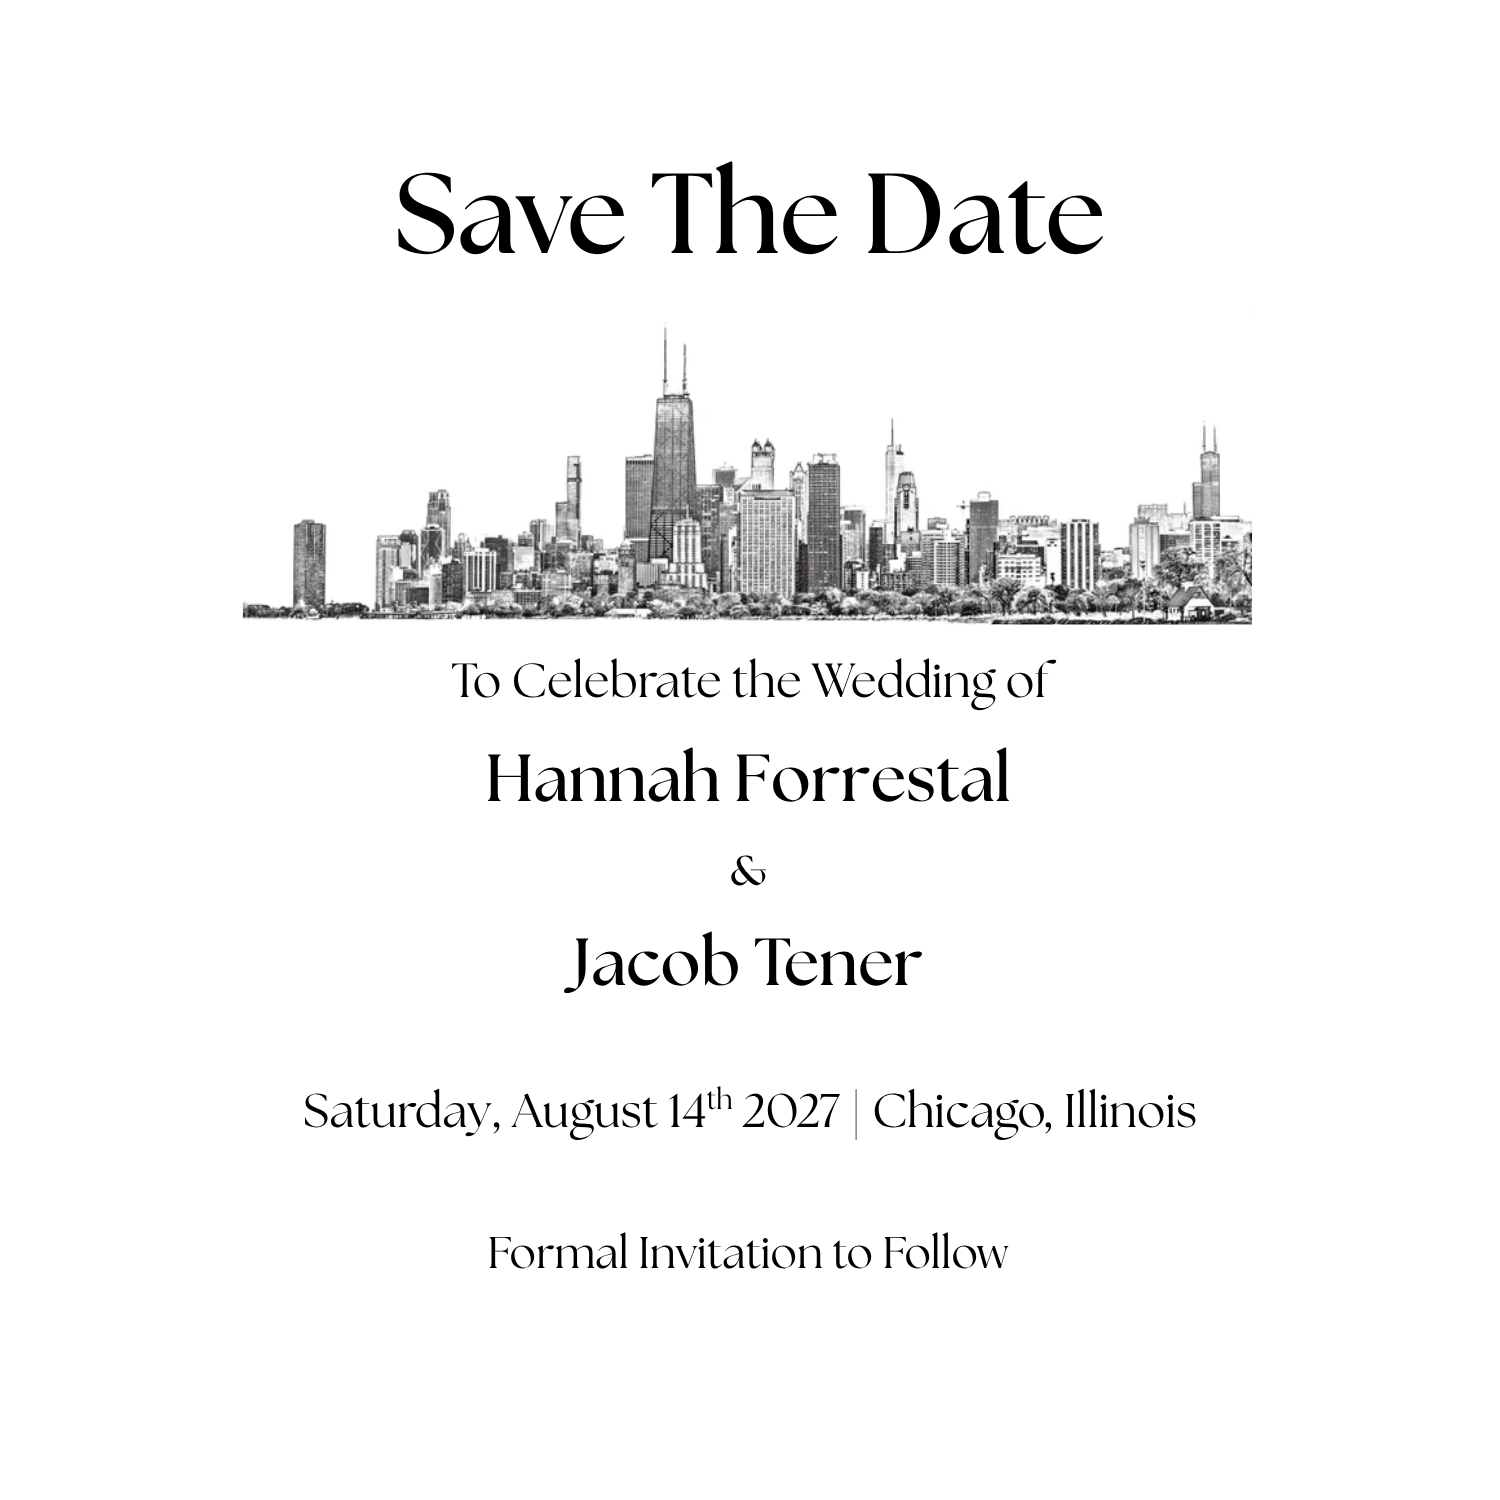
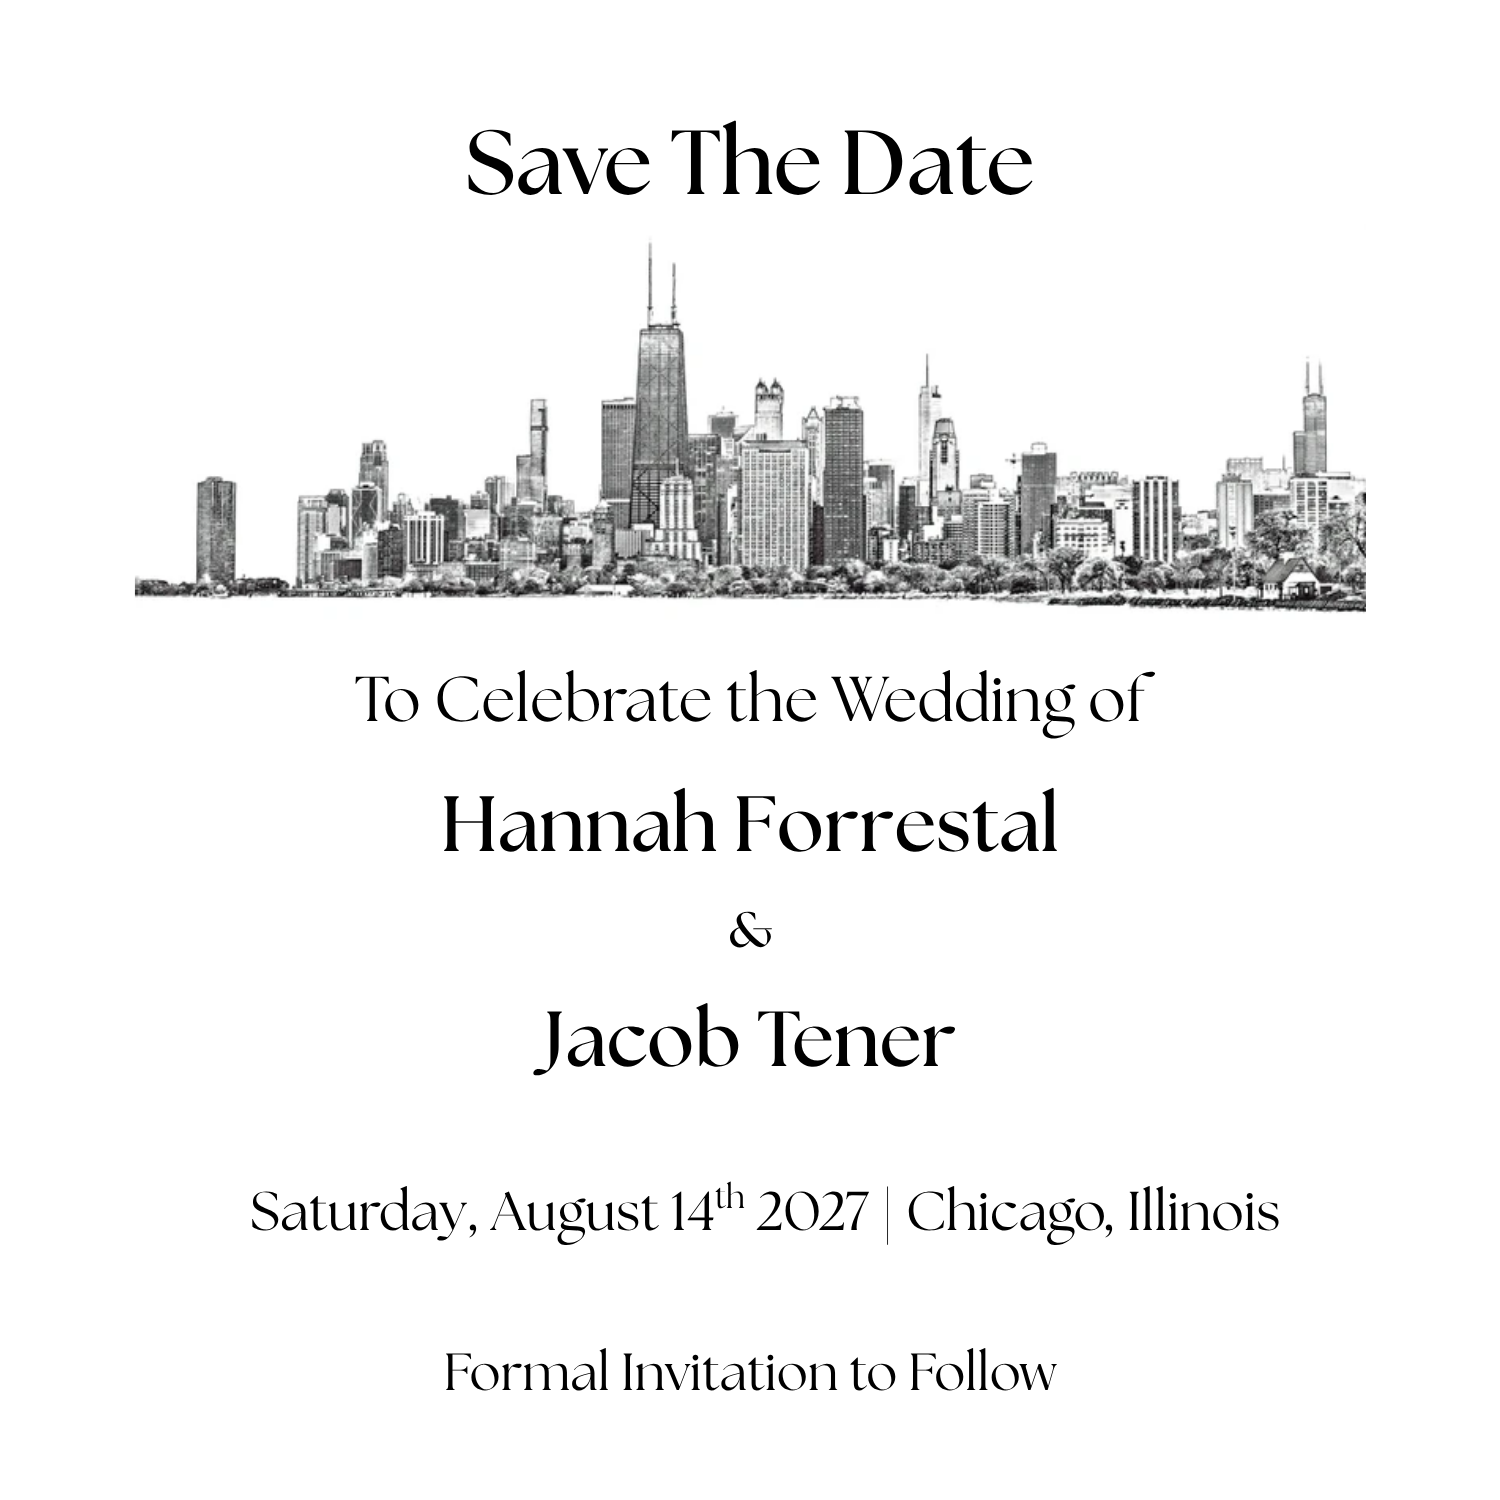
countodwn

diff --git a/index.html b/index.html
@@ -3,7 +3,7 @@
   <head>
     <meta charset="UTF-8" />
     <meta name="viewport" content="width=device-width, initial-scale=1.0" />
-    <title>Save the Date</title>
+    <title>Countdown | Hannah & Jacob</title>
     <link rel="preconnect" href="https://fonts.googleapis.com" />
     <link rel="preconnect" href="https://fonts.gstatic.com" crossorigin />
     <link
@@ -15,51 +15,41 @@
   <body>
     <main class="page-shell">
       <section class="hero-card">
-        <img
-          class="save-the-date-image"
-          src="./save-the-date-sq.png"
-          alt="Save the date invitation for Hannah Forrestal and Jacob Tener on Saturday, August 14th 2027 in Chicago, Illinois"
-        />
+        <p class="countdown-eyebrow">Save the Date</p>
+        <h1 class="countdown-names">Hannah &amp; Jacob</h1>
+        <p class="countdown-date">Saturday, August 14th 2027 &middot; Chicago</p>
+
+        <div id="countdown" class="countdown" role="timer" aria-label="Time remaining until August 14, 2027">
+          <div class="countdown-unit">
+            <span class="countdown-value" data-unit="days">0</span>
+            <span class="countdown-label">Days</span>
+          </div>
+          <div class="countdown-unit">
+            <span class="countdown-value" data-unit="hours">00</span>
+            <span class="countdown-label">Hours</span>
+          </div>
+          <div class="countdown-unit">
+            <span class="countdown-value" data-unit="minutes">00</span>
+            <span class="countdown-label">Minutes</span>
+          </div>
+          <div class="countdown-unit">
+            <span class="countdown-value" data-unit="seconds">00</span>
+            <span class="countdown-label">Seconds</span>
+          </div>
+        </div>
+
+        <p id="countdown-arrived" class="countdown-arrived" hidden>
+          The day is here.
+        </p>
 
         <div class="actions">
-          <a
-            id="google-calendar-link"
-            class="button button-primary"
-            href="#"
-            target="_blank"
-            rel="noreferrer"
-          >
-            <svg
-              class="button-icon"
-              viewBox="0 0 24 24"
-              aria-hidden="true"
-              focusable="false"
-            >
-              <path
-                d="M7 2a1 1 0 0 1 1 1v1h8V3a1 1 0 1 1 2 0v1h1a3 3 0 0 1 3 3v11a4 4 0 0 1-4 4H6a4 4 0 0 1-4-4V7a3 3 0 0 1 3-3h1V3a1 1 0 0 1 1-1Zm13 8H4v8a2 2 0 0 0 2 2h12a2 2 0 0 0 2-2v-8ZM5 6a1 1 0 0 0-1 1v1h16V7a1 1 0 0 0-1-1h-1v1a1 1 0 1 1-2 0V6H8v1a1 1 0 1 1-2 0V6H5Z"
-                fill="currentColor"
-              />
-            </svg>
-            <span>Add to Google Calendar</span>
-          </a>
-          <a id="apple-calendar-link" class="button button-secondary" href="#">
-            <svg
-              class="button-icon"
-              viewBox="0 0 24 24"
-              aria-hidden="true"
-              focusable="false"
-            >
-              <path
-                d="M7 2a1 1 0 0 1 1 1v1h8V3a1 1 0 1 1 2 0v1h1a3 3 0 0 1 3 3v11a4 4 0 0 1-4 4H6a4 4 0 0 1-4-4V7a3 3 0 0 1 3-3h1V3a1 1 0 0 1 1-1Zm13 8H4v8a2 2 0 0 0 2 2h12a2 2 0 0 0 2-2v-8ZM5 6a1 1 0 0 0-1 1v1h16V7a1 1 0 0 0-1-1h-1v1a1 1 0 1 1-2 0V6H8v1a1 1 0 1 1-2 0V6H5Z"
-                fill="currentColor"
-              />
-            </svg>
-            <span>Add to Apple Calendar</span>
+          <a class="button button-primary" href="./save-the-date/">
+            <span>View Save the Date</span>
           </a>
         </div>
       </section>
     </main>
 
-    <script src="./script.js"></script>
+    <script src="./countdown.js"></script>
   </body>
 </html>

diff --git a/styles.css b/styles.css
@@ -72,6 +72,73 @@ body::after {
   border-radius: 20px;
 }
 
+.countdown-eyebrow {
+  margin: 8px 0 0;
+  font-size: 0.78rem;
+  font-weight: 600;
+  letter-spacing: 0.22em;
+  text-transform: uppercase;
+  color: rgba(28, 28, 28, 0.52);
+}
+
+.countdown-names {
+  margin: 10px 0 0;
+  font-family: "Cormorant Garamond", serif;
+  font-size: clamp(2.4rem, 7vw, 4.2rem);
+  font-weight: 500;
+  line-height: 1.05;
+  color: var(--accent);
+}
+
+.countdown-date {
+  margin: 12px 0 0;
+  font-size: 0.98rem;
+  font-weight: 500;
+  letter-spacing: 0.04em;
+  color: rgba(28, 28, 28, 0.62);
+}
+
+.countdown {
+  display: grid;
+  grid-template-columns: repeat(4, minmax(0, 1fr));
+  gap: 12px;
+  margin-top: 32px;
+}
+
+.countdown-unit {
+  padding: 20px 8px 16px;
+  background: rgba(255, 255, 255, 0.72);
+  border: 1px solid var(--card-border);
+  border-radius: 20px;
+}
+
+.countdown-value {
+  display: block;
+  font-family: "Cormorant Garamond", serif;
+  font-size: clamp(2rem, 6vw, 3.4rem);
+  font-weight: 500;
+  line-height: 1;
+  color: var(--accent);
+}
+
+.countdown-label {
+  display: block;
+  margin-top: 10px;
+  font-size: 0.7rem;
+  font-weight: 600;
+  letter-spacing: 0.14em;
+  text-transform: uppercase;
+  color: rgba(28, 28, 28, 0.5);
+}
+
+.countdown-arrived {
+  margin: 32px 0 0;
+  font-family: "Cormorant Garamond", serif;
+  font-size: clamp(1.6rem, 4vw, 2.2rem);
+  font-weight: 500;
+  color: var(--accent);
+}
+
 .actions {
   display: flex;
   flex-wrap: wrap;
@@ -146,6 +213,16 @@ body::after {
   .hero-card {
     padding: 18px 18px 28px;
     border-radius: 24px;
+  }
+
+  .countdown {
+    gap: 8px;
+    margin-top: 24px;
+  }
+
+  .countdown-unit {
+    padding: 14px 4px 12px;
+    border-radius: 16px;
   }
 
   .button {

diff --git a/countdown.js b/countdown.js
@@ -1,0 +1,49 @@
+const TARGET_DATE = new Date("2027-08-14T16:00:00-05:00");
+
+const countdownEl = document.getElementById("countdown");
+const arrivedEl = document.getElementById("countdown-arrived");
+const valueEls = {
+  days: document.querySelector('[data-unit="days"]'),
+  hours: document.querySelector('[data-unit="hours"]'),
+  minutes: document.querySelector('[data-unit="minutes"]'),
+  seconds: document.querySelector('[data-unit="seconds"]'),
+};
+
+function pad(value) {
+  return String(value).padStart(2, "0");
+}
+
+function getRemaining(now) {
+  const diff = TARGET_DATE.getTime() - now.getTime();
+
+  if (diff <= 0) {
+    return null;
+  }
+
+  const totalSeconds = Math.floor(diff / 1000);
+
+  return {
+    days: Math.floor(totalSeconds / 86400),
+    hours: Math.floor((totalSeconds % 86400) / 3600),
+    minutes: Math.floor((totalSeconds % 3600) / 60),
+    seconds: totalSeconds % 60,
+  };
+}
+
+function renderCountdown() {
+  const remaining = getRemaining(new Date());
+
+  if (!remaining) {
+    countdownEl.hidden = true;
+    arrivedEl.hidden = false;
+    return;
+  }
+
+  valueEls.days.textContent = String(remaining.days);
+  valueEls.hours.textContent = pad(remaining.hours);
+  valueEls.minutes.textContent = pad(remaining.minutes);
+  valueEls.seconds.textContent = pad(remaining.seconds);
+}
+
+renderCountdown();
+setInterval(renderCountdown, 1000);

diff --git a/save-the-date/index.html b/save-the-date/index.html
@@ -10,7 +10,7 @@
       href="https://fonts.googleapis.com/css2?family=Cormorant+Garamond:wght@400;500;600&family=Manrope:wght@400;500;600;700&display=swap"
       rel="stylesheet"
     />
-    <link rel="stylesheet" href="./styles.css" />
+    <link rel="stylesheet" href="../styles.css" />
   </head>
   <body>
     <main class="page-shell">
